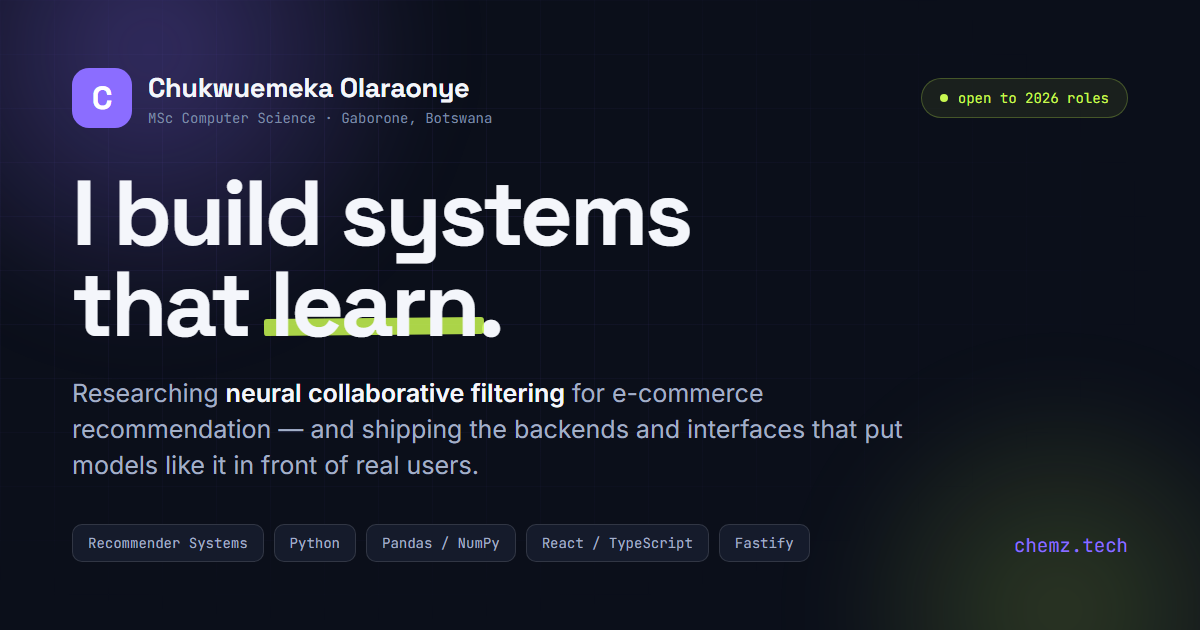
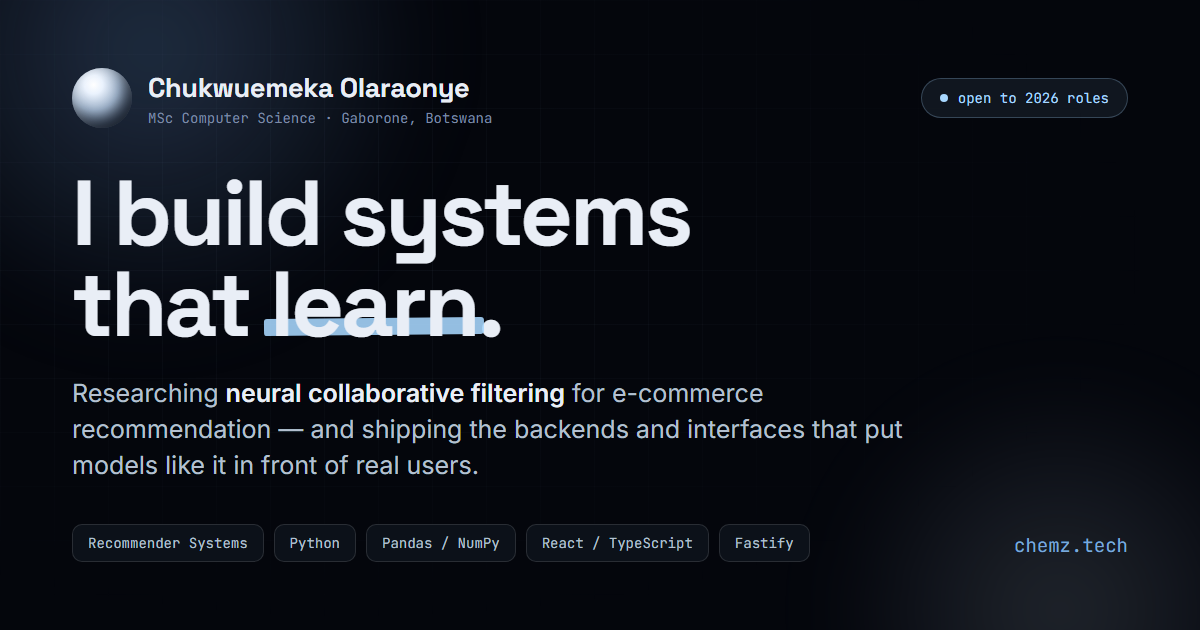
Chrome sphere mark, and the age mechanism
The favicon is a polished sphere over a starfield now, matching the site.
Deliberately not a figure on a board: a favicon is read at 16px, where
anything with limbs collapses into noise, while a sphere survives because
it is carried entirely by its gradient. Checked at 16, 24, 32 and 64, and
on a white background.

The same mark replaces the violet "C" badge on the social card, and that
card is retuned to the chrome palette - it was still violet and citron,
which is what LinkedIn and WhatsApp were showing for a link to a near-black
chrome site. The apple-touch-icon is regenerated from the same source, with
square corners because iOS applies its own mask and transparent rounded
corners show as notches on a light home screen.

Age is computed from a single date rather than written down, so it cannot
go stale - a hardcoded number is wrong from the next birthday onward and
nobody remembers to change it. The maths is checked against the awkward
cases: birthday today, birthday tomorrow, and a 29 February birth date.

Only the age renders, not the date. On a CV sent to a named employer a full
date of birth is ordinary; on a public page indexed by search engines it
sits next to a full name and a city and buys nothing the age does not.

DATE_OF_BIRTH is still empty, so the row does not render yet - the page
ships unchanged until the date is filled in, which is a one-line edit.

Residence was already on the page in three places and is left alone: the
[…]

diff --git a/og-card.html b/og-card.html
@@ -9,30 +9,30 @@
   * { margin: 0; padding: 0; box-sizing: border-box; }
   body {
     width: 1200px; height: 630px;
-    background: #0b0f1a;
+    background: #04060c;
     font-family: 'Inter', sans-serif;
-    color: #f4f6fb;
+    color: #e9eef6;
     position: relative;
     overflow: hidden;
   }
   .grid {
     position: absolute; inset: 0;
     background-image:
-      linear-gradient(#8b6dff14 1px, transparent 1px),
-      linear-gradient(90deg, #8b6dff14 1px, transparent 1px);
+      linear-gradient(#9fb6d00e 1px, transparent 1px),
+      linear-gradient(90deg, #9fb6d00e 1px, transparent 1px);
     background-size: 54px 54px;
     mask-image: radial-gradient(ellipse 90% 80% at 30% 40%, black, transparent 75%);
   }
   .glow-a {
     position: absolute; width: 620px; height: 620px;
     left: -160px; top: -260px;
-    background: radial-gradient(circle, #8b6dff55 0%, transparent 65%);
+    background: radial-gradient(circle, #5c82b455 0%, transparent 65%);
     filter: blur(40px);
   }
   .glow-b {
     position: absolute; width: 520px; height: 520px;
     right: -120px; bottom: -240px;
-    background: radial-gradient(circle, #c8f75130 0%, transparent 65%);
+    background: radial-gradient(circle, #cfe2f826 0%, transparent 65%);
     filter: blur(40px);
   }
   .inner {
@@ -46,23 +46,24 @@
   .top { display: flex; align-items: center; justify-content: space-between; }
   .brandmark { display: flex; align-items: center; gap: 16px; }
   .logo {
-    width: 60px; height: 60px; border-radius: 17px;
-    background: #8b6dff;
-    display: flex; align-items: center; justify-content: center;
-    font-family: 'Space Grotesk'; font-weight: 700; font-size: 32px; color: #fff;
+    width: 60px; height: 60px;
+    background:
+      radial-gradient(circle at 36% 28%, #ffffff 0%, #eaf2fd 16%, #9db1c9 44%, #4a596f 71%, #171f2c 100%);
+    box-shadow: inset -6px -8px 14px #0a0f1799, inset 5px 6px 12px #ffffff3d;
+    border-radius: 999px;
   }
   .who { font-family: 'Space Grotesk'; font-weight: 700; font-size: 27px; letter-spacing: -0.01em; }
   .where { font-family: 'JetBrains Mono'; font-size: 14px; color: #7d8aa5; margin-top: 4px; }
 
   .pill {
     font-family: 'JetBrains Mono'; font-size: 14px;
-    color: #c8f751;
-    border: 1px solid #c8f75140;
-    background: #c8f75114;
+    color: #a8d8ff;
+    border: 1px solid #a8d8ff40;
+    background: #a8d8ff14;
     padding: 10px 18px; border-radius: 999px;
     display: flex; align-items: center; gap: 10px;
   }
-  .dot { width: 8px; height: 8px; border-radius: 999px; background: #c8f751; }
+  .dot { width: 8px; height: 8px; border-radius: 999px; background: #a8d8ff; }
 
   h1 {
     font-family: 'Space Grotesk'; font-weight: 700;
@@ -73,27 +74,27 @@
   .mark::before {
     content: ''; position: absolute;
     left: -6px; right: -6px; bottom: 14px; height: 17px;
-    background: #c8f751; opacity: .85; border-radius: 3px;
+    background: #a8d8ff; opacity: .88; border-radius: 3px;
     transform: rotate(-0.6deg);
   }
   .mark span { position: relative; }
 
   .sub {
-    font-size: 25px; color: #a3afc7; line-height: 1.45;
+    font-size: 25px; color: #b4c0d0; line-height: 1.45;
     max-width: 860px; margin-top: 26px;
   }
-  .sub b { color: #f4f6fb; font-weight: 600; }
+  .sub b { color: #e9eef6; font-weight: 600; }
 
   .bottom { display: flex; align-items: flex-end; justify-content: space-between; }
   .chips { display: flex; gap: 10px; flex-wrap: wrap; max-width: 830px; }
   .chip {
     font-family: 'JetBrains Mono'; font-size: 14px;
-    color: #a3afc7;
-    border: 1px solid #ffffff1f; background: #151b2b;
+    color: #b4c0d0;
+    border: 1px solid #ffffff1f; background: #0c1119;
     padding: 9px 15px; border-radius: 10px;
   }
   .url {
-    font-family: 'JetBrains Mono'; font-size: 19px; color: #8b6dff;
+    font-family: 'JetBrains Mono'; font-size: 19px; color: #7aa9da;
     white-space: nowrap; padding-bottom: 4px;
   }
 </style>
@@ -106,7 +107,7 @@
   <div class="inner">
     <div class="top">
       <div class="brandmark">
-        <div class="logo">C</div>
+        <div class="logo"></div>
         <div>
           <div class="who">Chukwuemeka Olaraonye</div>
           <div class="where">MSc Computer Science &middot; Gaborone, Botswana</div>

diff --git a/App.tsx b/App.tsx
@@ -410,11 +410,38 @@ const NOW_BUILDING = [
 ];
 
 /* The facts an employer needs inside five seconds, in scan order. */
+/*
+  Age, computed rather than written down, so it cannot go stale - a hardcoded
+  number is wrong from the next birthday onward and nobody ever remembers to
+  change it.
+
+  Only the age is shown, not the date. On a CV sent to a named employer a full
+  date of birth is ordinary; on a public page indexed by search engines it is
+  a piece of identity material sitting next to a full name and a city, and it
+  buys nothing the age does not.
+
+  Leave DATE_OF_BIRTH empty and the row simply does not render.
+*/
+const DATE_OF_BIRTH = ''; // 'YYYY-MM-DD'
+
+const yearsSince = (iso: string) => {
+  const born = new Date(`${iso}T00:00:00`);
+  const now = new Date();
+  const age = now.getFullYear() - born.getFullYear();
+  const beforeBirthday =
+    now.getMonth() < born.getMonth() ||
+    (now.getMonth() === born.getMonth() && now.getDate() < born.getDate());
+  return beforeBirthday ? age - 1 : age;
+};
+
 const AT_A_GLANCE: [string, React.ReactNode][] = [
   ['role', <>MSc Computer Science researcher &middot; Teaching Assistant, BIUST</>],
   ['focus', <>Recommender systems &mdash; neural collaborative filtering for e-commerce</>],
   ['building', <>Tickety, a ticketing backend on Cloud Run &middot; Motora, a used-car marketplace</>],
   ['stack', <>Python &middot; TypeScript &middot; React &middot; Node/Fastify &middot; Firestore &middot; Docker</>],
+  ...(DATE_OF_BIRTH
+    ? ([['age', <>{yearsSince(DATE_OF_BIRTH)}</>]] as [string, React.ReactNode][])
+    : []),
   ['based', <>Gaborone, Botswana &middot; open to remote</>],
   ['available', <>2026 roles &amp; research collaborations</>]
 ];
